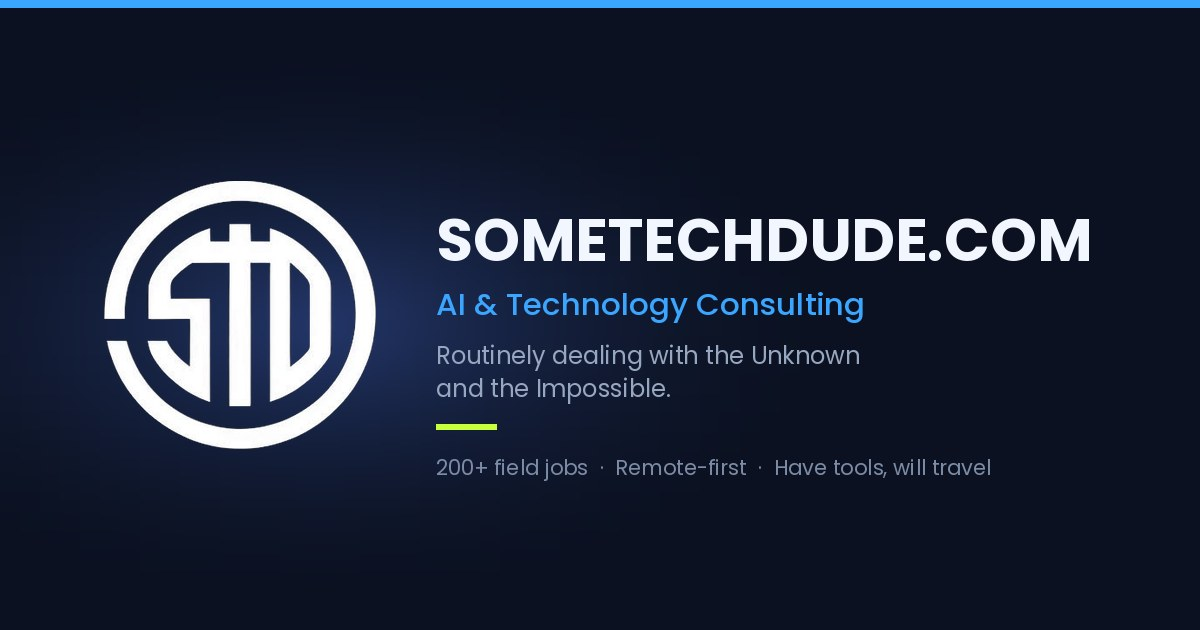
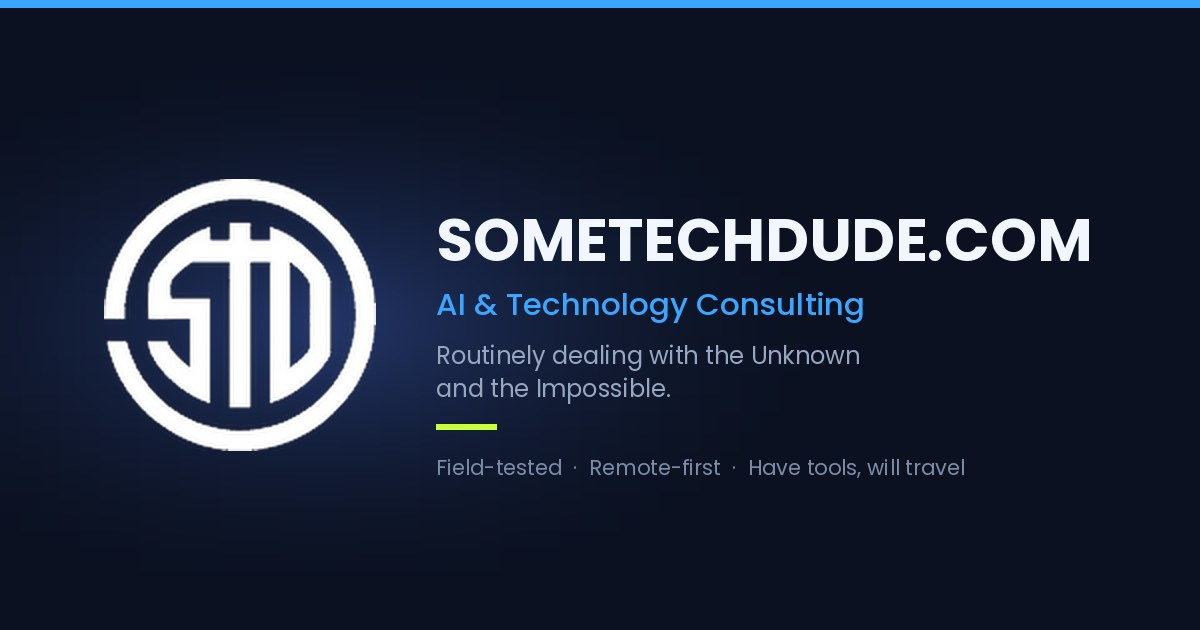
Homepage: replace job-count stats with prose, retitle work section, remove news widget
- Rewrite the field experience section as prose covering the breadth of
  onsite work (infrastructure, retail and workplace systems, A/V and
  signage) with no numeric job counts; keep the link through to the
  detailed breakdown on the experience page
- Retitle the selected work section, which was carrying placeholder copy
- Remove the Hacker News feed section, its script, and the now-unused
  terminal styles
- Drop the remaining job-count claims from the homepage hero and meta
  description so the page reads consistently, and refresh the OG card
  to match

diff --git a/index.html b/index.html
@@ -5,7 +5,7 @@
 <meta name="viewport" content="width=device-width, initial-scale=1">
 
 <title>SomeTechDude.com | AI &amp; Technology Consulting</title>
-<meta name="description" content="Remote-first AI and technology consulting: applied AI strategy, automation, and hands-on infrastructure. 200+ completed field jobs for clients including Panasonic, T-Mobile and Walgreens.">
+<meta name="description" content="Remote-first AI and technology consulting: applied AI strategy, automation, and hands-on infrastructure. Field-tested onsite experience for clients including Panasonic, T-Mobile and Walgreens.">
 <link rel="canonical" href="https://sometechdude.com/">
 
 <meta name="theme-color" content="#0b1120">
@@ -155,7 +155,7 @@
 
           <ul class="hero-meta">
             <li>Remote-first</li>
-            <li>200+ field jobs completed</li>
+            <li>Field-tested onsite</li>
             <li>Have tools, will travel</li>
           </ul>
         </div>
@@ -218,24 +218,41 @@
     </div>
   </section>
 
-  <!-- ================= STATS ================= -->
+  <!-- ================= BREADTH ================= -->
   <section class="section-alt">
     <div class="wrap">
-      <div class="section-head center">
+      <div class="section-head">
+        <p class="eyebrow">Range</p>
         <h2>Field-tested, not theoretical</h2>
-        <p>Completed job types through July 2025. Real sites, real racks, real ladders.</p>
+        <p class="lead">
+          Years of onsite work across office equipment, low-voltage cabling, server and
+          networking buildouts, telecom, point of sale, A/V and digital signage, camera
+          systems, and kiosks.
+        </p>
+        <p>
+          That range matters because advice about AI is worth very little if it ignores the
+          building it has to run inside. Real sites, real racks, real ladders &mdash; the
+          constraints always show up long before the software does.
+        </p>
       </div>
 
-      <div class="grid grid-4">
-        <div class="stat"><span class="stat-num">205</span><span class="stat-label">Total jobs completed</span></div>
-        <div class="stat"><span class="stat-num">52</span><span class="stat-label">Office equipment</span></div>
-        <div class="stat"><span class="stat-num">50</span><span class="stat-label">Low voltage cabling</span></div>
-        <div class="stat"><span class="stat-num">47</span><span class="stat-label">Server &amp; networking</span></div>
+      <div class="grid grid-3">
+        <article class="card">
+          <h3>Infrastructure</h3>
+          <p>Low-voltage cabling runs, structured wiring, patching and labeling, server and network buildouts, and the documentation that makes it maintainable after I leave.</p>
+        </article>
+        <article class="card">
+          <h3>Retail &amp; workplace systems</h3>
+          <p>Office equipment, point of sale, kiosks and ATMs, camera systems, and telecom &mdash; installed, serviced, and verified in live environments during business hours.</p>
+        </article>
+        <article class="card">
+          <h3>A/V &amp; signage</h3>
+          <p>Audio racks, digital signage, and display systems, including custom board-level work when the spec called for something off the shelf that did not exist.</p>
+        </article>
       </div>
 
       <p class="muted center" style="margin-top:1.4rem">
-        Plus telecom, point of sale, A/V and digital signage, cameras, and kiosk work &mdash;
-        <a href="experience.html#jobs">see the full breakdown</a>.
+        <a href="experience.html#jobs">See the full breakdown</a>.
       </p>
     </div>
   </section>
@@ -245,8 +262,8 @@
     <div class="wrap">
       <div class="section-head">
         <p class="eyebrow">Selected work</p>
-        <h2>The credibility backbone</h2>
-        <p class="lead">A few jobs that explain the range better than a skills list would.</p>
+        <h2>Jobs that explain the range</h2>
+        <p class="lead">A few engagements that say more about the work than any skills list would.</p>
       </div>
 
       <div class="grid grid-2">
@@ -299,24 +316,6 @@
           <p>A run of live, AI-assisted, GitHub-hosted sites across finance education, consumer credit, comedy, and skate &mdash; each one built end to end.</p>
           <span class="card-link">See the build list</span>
         </a>
-      </div>
-    </div>
-  </section>
-
-  <!-- ================= SIGNAL / HN FEED ================= -->
-  <section id="signal">
-    <div class="wrap">
-      <div class="section-head">
-        <p class="eyebrow">From the wire</p>
-        <h2>What the industry is reading</h2>
-        <p>Live top stories from Hacker News. Staying current is part of the job.</p>
-      </div>
-
-      <div class="terminal" id="news-feed" aria-live="polite" aria-label="Top Hacker News stories">
-        <div class="terminal-row">
-          <span class="prompt" aria-hidden="true">system@sometechdude:~$</span>
-          <span>fetching top stories&hellip;</span>
-        </div>
       </div>
     </div>
   </section>

diff --git a/site.js b/site.js
@@ -33,83 +33,6 @@
     el.textContent = String(new Date().getFullYear());
   });
 
-  /* ---------- Hacker News feed ----------
-     Pulls the current top stories. If anything at all goes wrong — offline,
-     rate limit, API change — the whole section removes itself rather than
-     sitting there saying "Loading..." forever, which is what the old one did.
-  */
-  var feed = document.getElementById("news-feed");
-
-  if (feed) {
-    var section = document.getElementById("signal");
-
-    var giveUp = function () {
-      if (section && section.parentNode) section.parentNode.removeChild(section);
-    };
-
-    var withTimeout = function (url, ms) {
-      return new Promise(function (resolve, reject) {
-        var done = false;
-        var timer = setTimeout(function () {
-          if (!done) { done = true; reject(new Error("timeout")); }
-        }, ms);
-        fetch(url)
-          .then(function (r) {
-            if (!r.ok) throw new Error("http " + r.status);
-            return r.json();
-          })
-          .then(function (data) {
-            if (!done) { done = true; clearTimeout(timer); resolve(data); }
-          })
-          .catch(function (err) {
-            if (!done) { done = true; clearTimeout(timer); reject(err); }
-          });
-      });
-    };
-
-    var escapeHtml = function (s) {
-      return String(s)
-        .replace(/&/g, "&amp;").replace(/</g, "&lt;").replace(/>/g, "&gt;")
-        .replace(/"/g, "&quot;").replace(/'/g, "&#39;");
-    };
-
-    var safeUrl = function (u) {
-      return /^https?:\/\//i.test(u || "") ? u : null;
-    };
-
-    var API = "https://hacker-news.firebaseio.com/v0";
-
-    withTimeout(API + "/topstories.json", 6000)
-      .then(function (ids) {
-        if (!Array.isArray(ids) || !ids.length) throw new Error("no ids");
-        // Fetch in parallel, not one-at-a-time like the old version.
-        return Promise.all(ids.slice(0, 5).map(function (id) {
-          return withTimeout(API + "/item/" + id + ".json", 6000).catch(function () { return null; });
-        }));
-      })
-      .then(function (stories) {
-        var live = stories.filter(function (s) { return s && s.title; });
-        if (!live.length) return giveUp();
-
-        feed.innerHTML = "";
-        live.forEach(function (story) {
-          var row = document.createElement("div");
-          row.className = "terminal-row";
-
-          var url = safeUrl(story.url) ||
-                    ("https://news.ycombinator.com/item?id=" + encodeURIComponent(story.id));
-
-          row.innerHTML =
-            '<span class="prompt" aria-hidden="true">&gt;</span>' +
-            '<a href="' + escapeHtml(url) + '" target="_blank" rel="noopener noreferrer">' +
-            escapeHtml(story.title) + "</a>";
-
-          feed.appendChild(row);
-        });
-      })
-      .catch(giveUp);
-  }
-
   /* ---------- Contact form ----------
      Posts as form-encoded data so the browser treats it as a "simple request"
      and skips the CORS preflight that Apps Script cannot answer.

diff --git a/style.css b/style.css
@@ -553,22 +553,6 @@ a.card h3 { color: #fff; }
   gap: .3rem;
 }
 
-/* ---------- TERMINAL / NEWS ---------- */
-.terminal {
-  background: #05090f;
-  border: 1px solid var(--line);
-  border-radius: var(--radius);
-  padding: 1.15rem 1.25rem;
-  font-family: var(--font-mono);
-  font-size: .9rem;
-  line-height: 1.7;
-}
-.terminal .prompt { color: var(--lime); user-select: none; flex: none; }
-.terminal a { color: var(--blue); }
-.terminal a:hover { color: var(--blue-bright); text-decoration: underline; }
-.terminal-row { display: flex; gap: .6rem; padding-block: .3rem; }
-.terminal-row + .terminal-row { border-top: 1px solid rgba(255,255,255,.05); }
-
 /* ---------- FORM ---------- */
 .form-shell {
   background: var(--panel);
